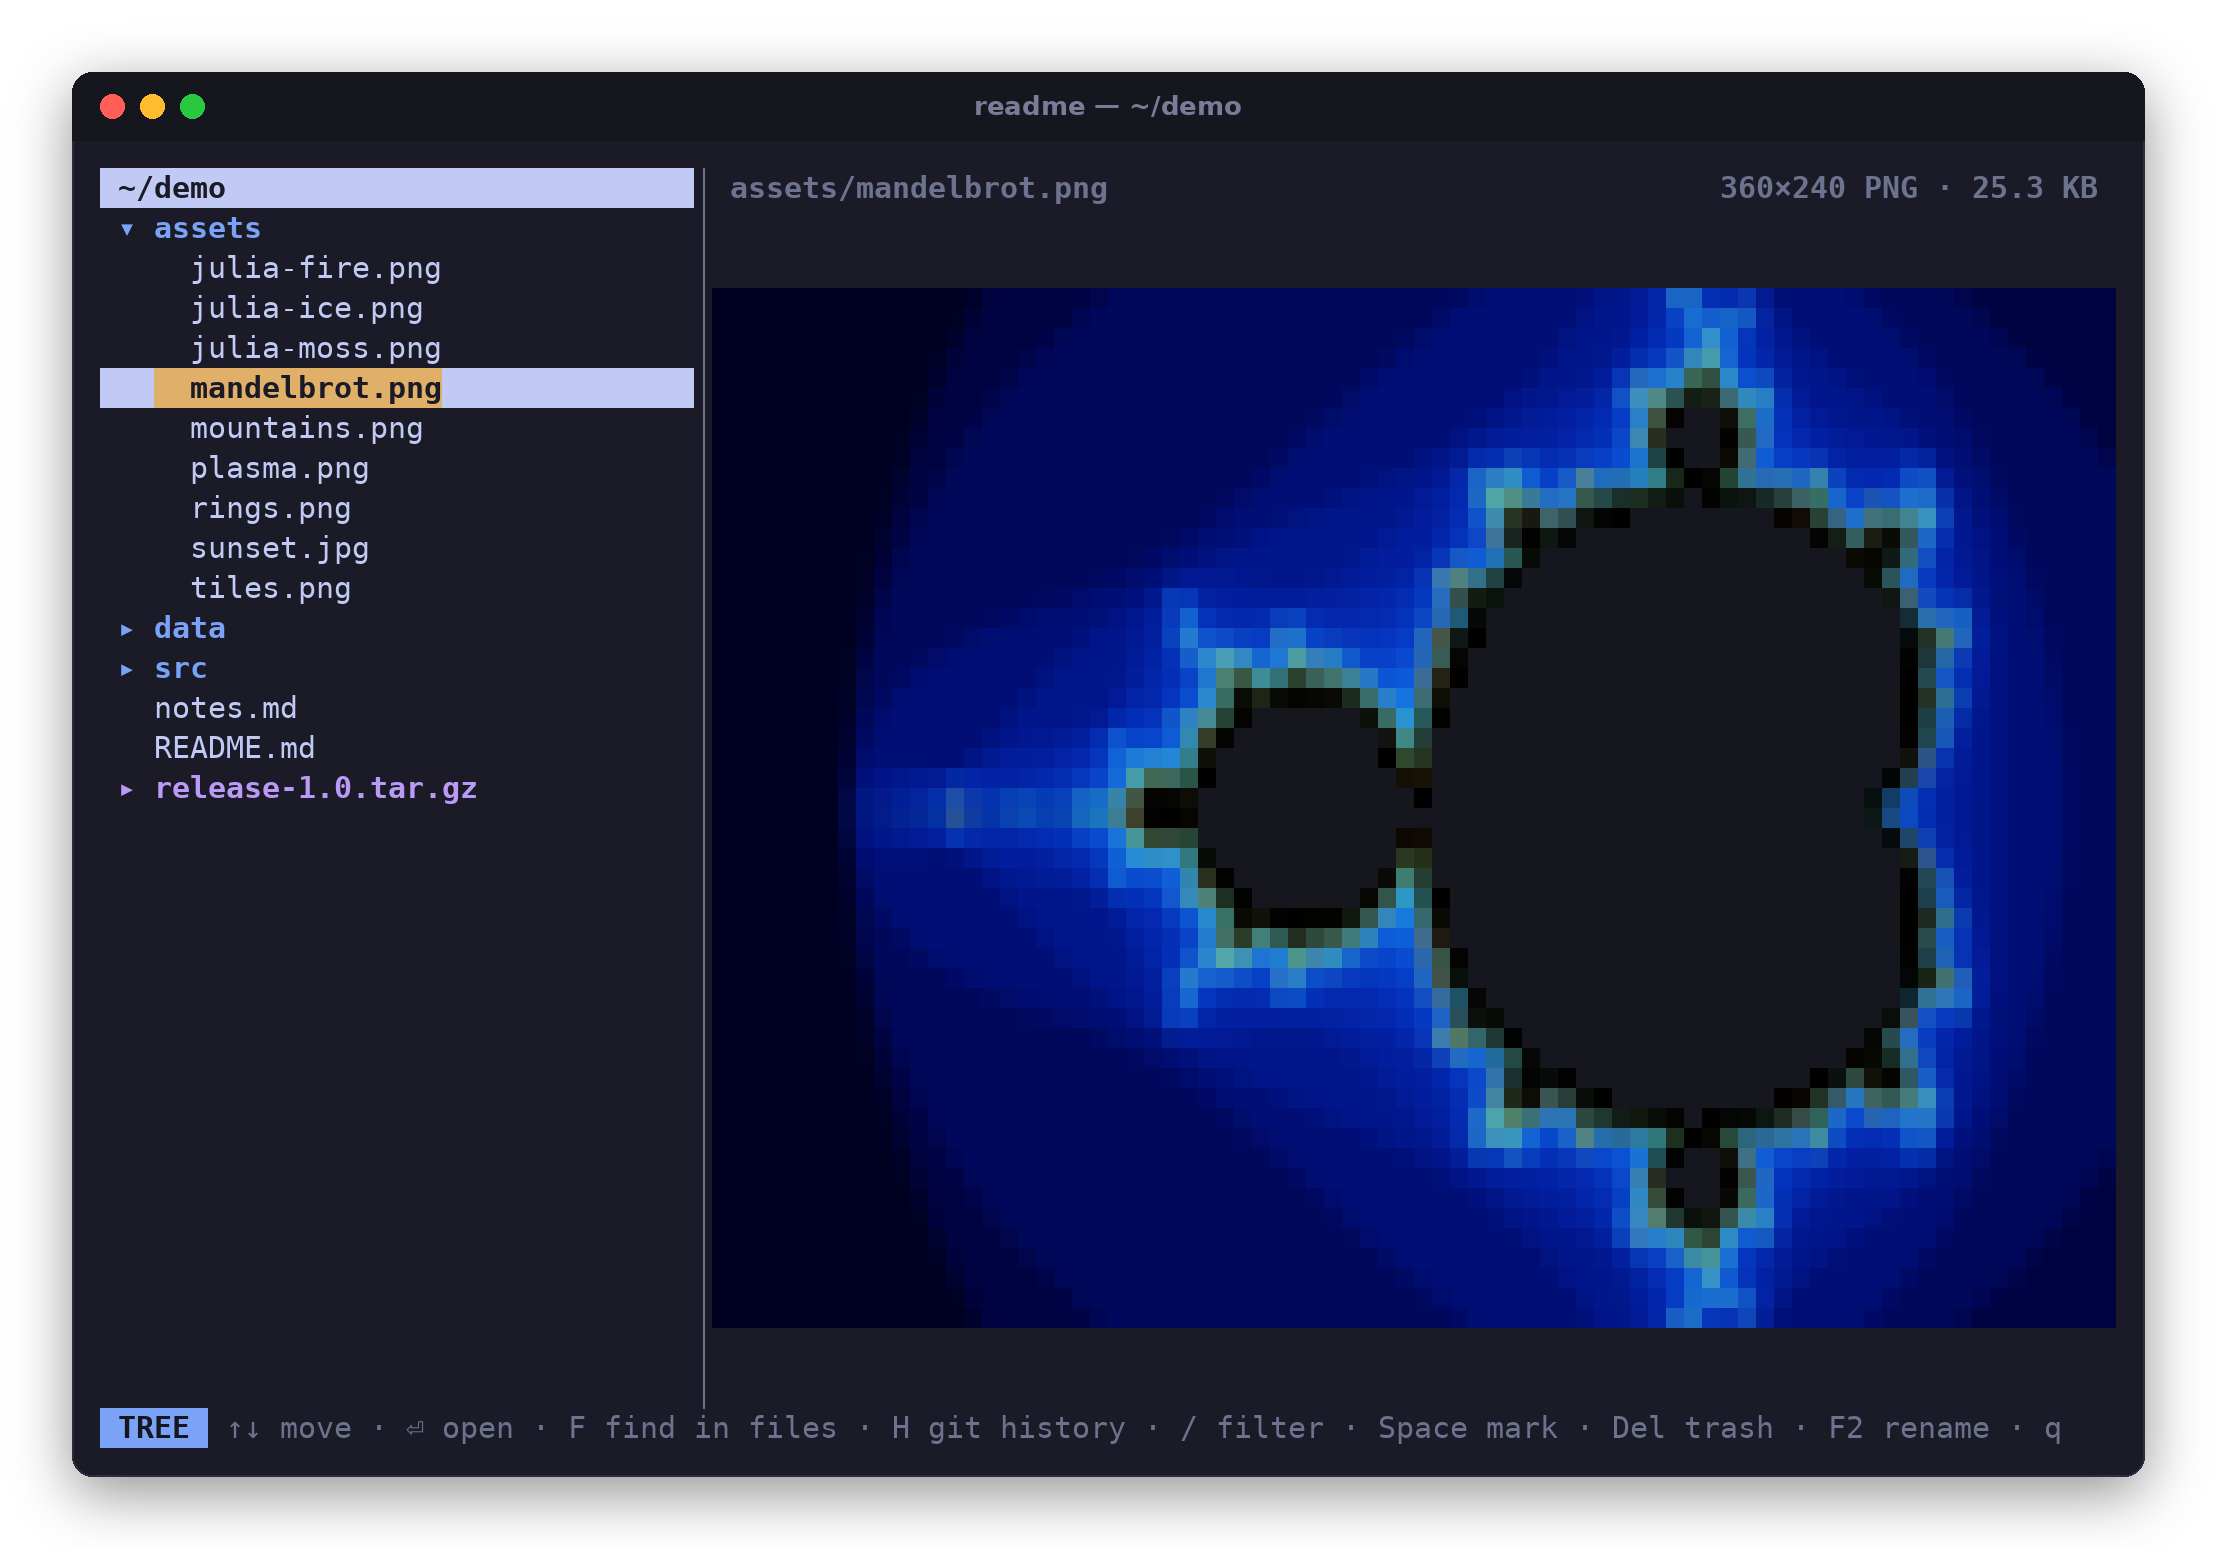
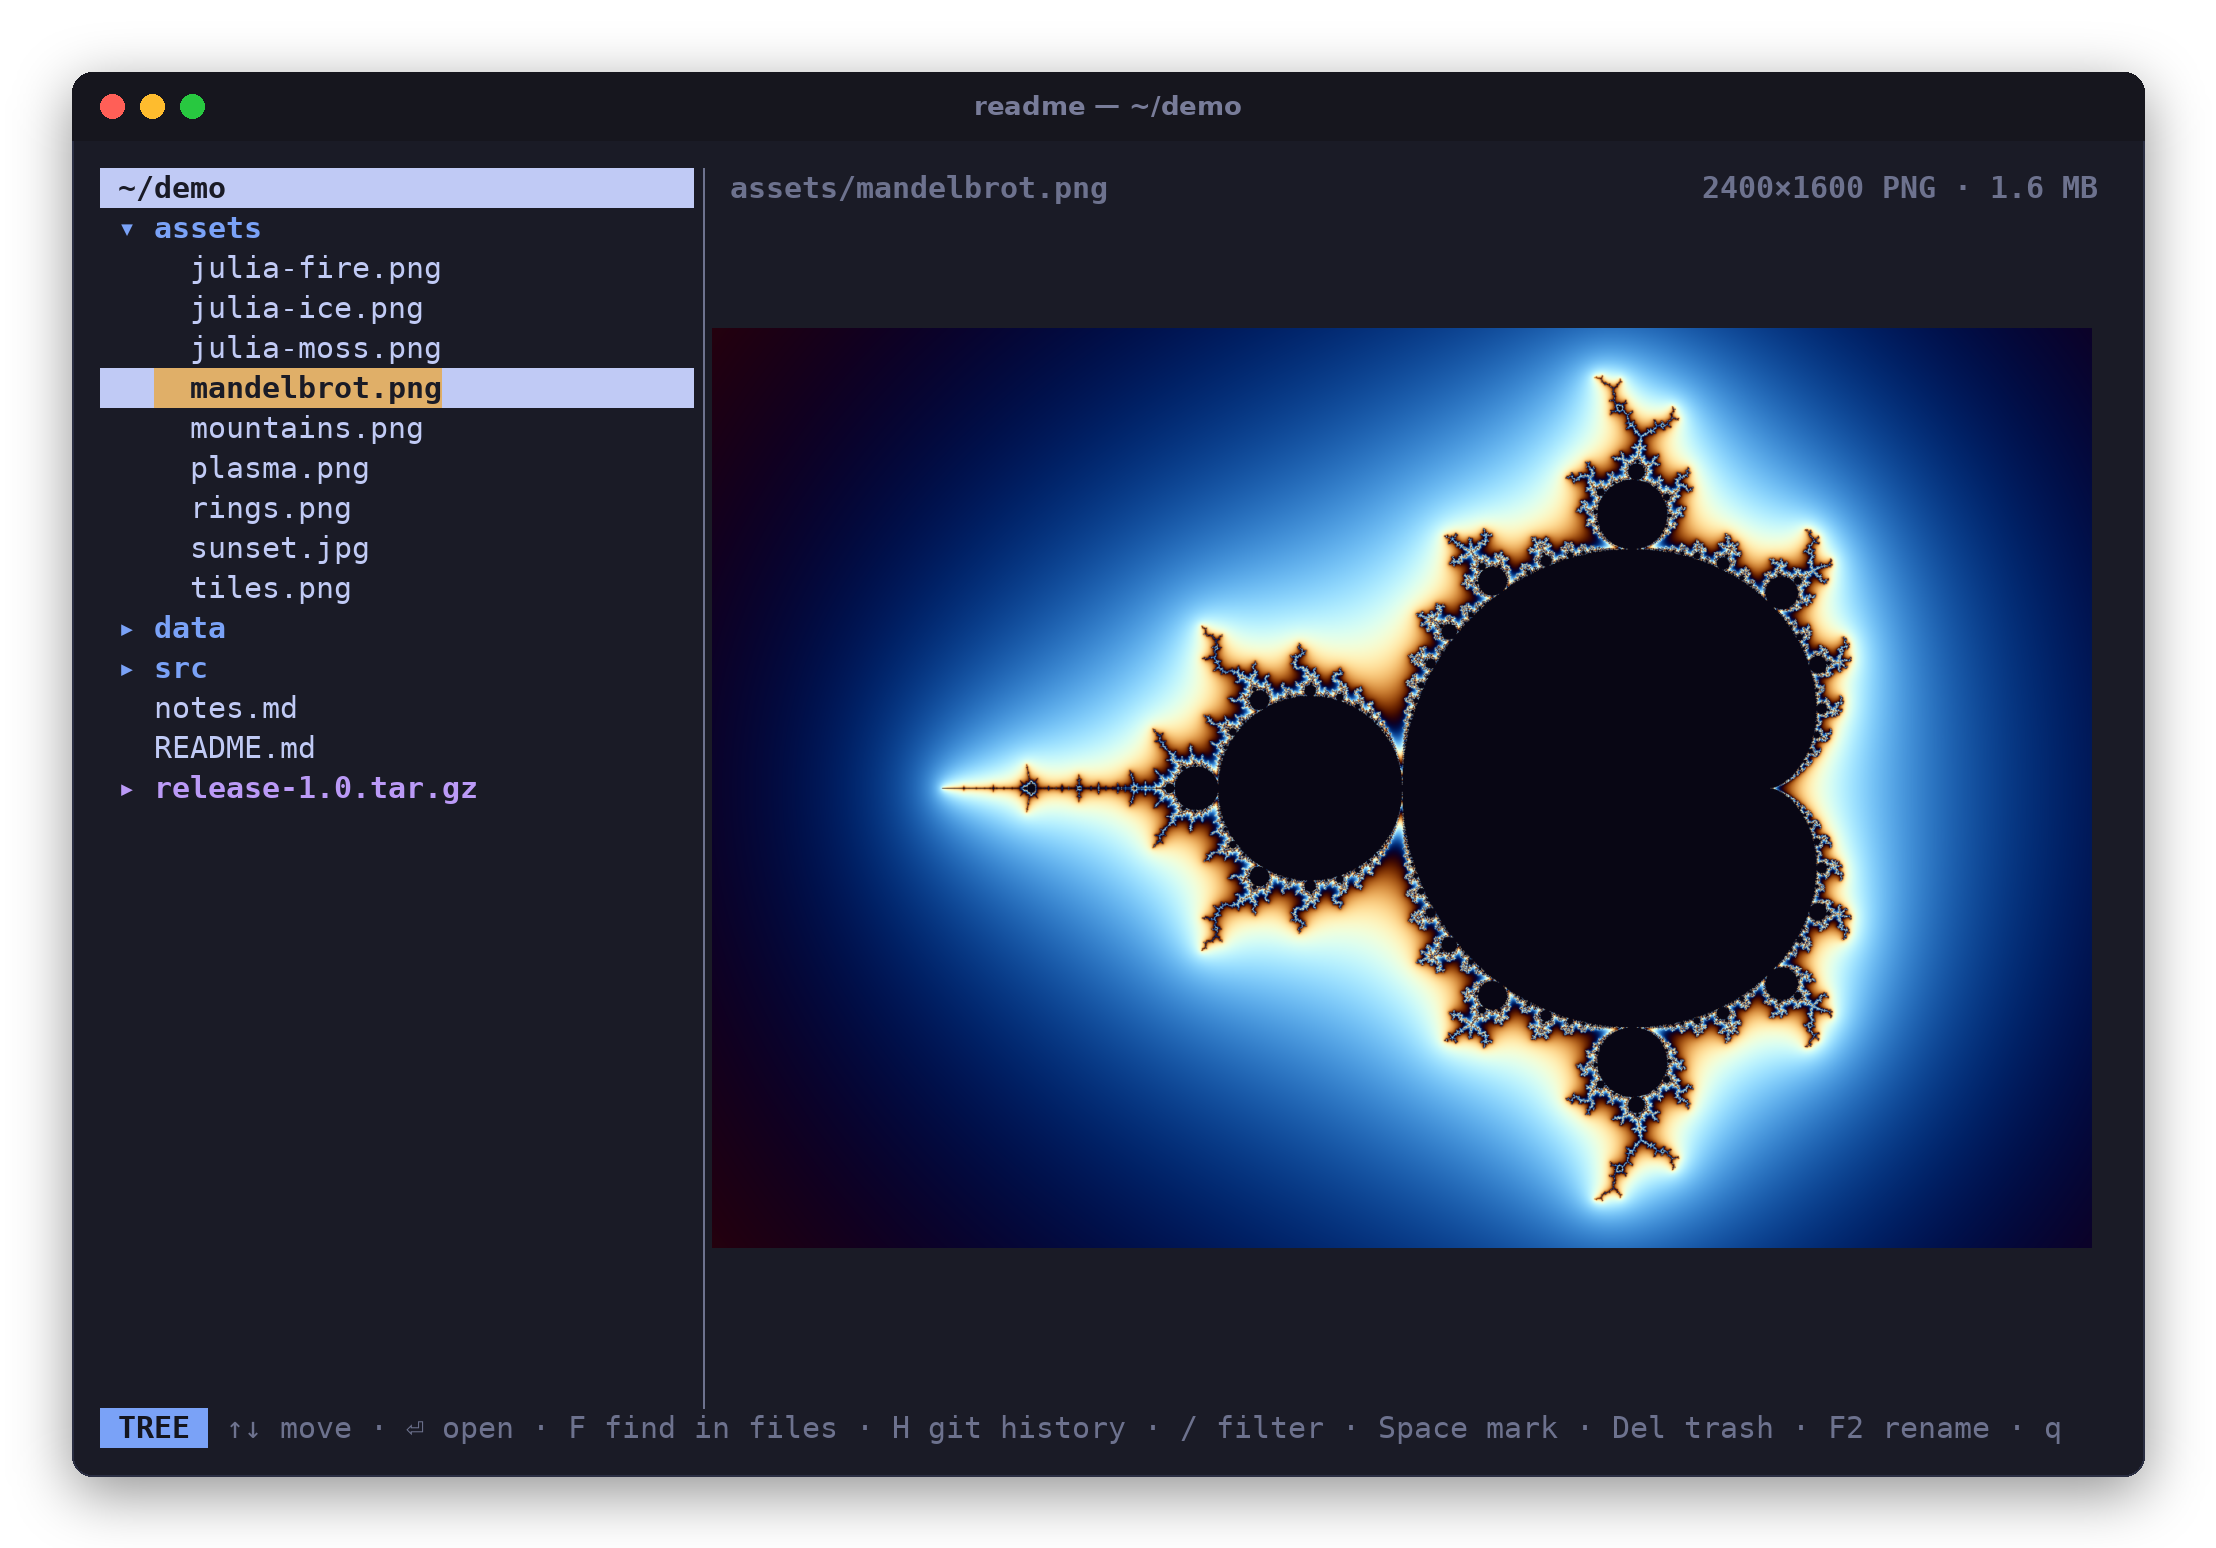
Show images at full resolution in the README, and say herdr isn't required
The image viewer and thumbnail screenshots now show real pixels, as a terminal with Kitty graphics draws them: a 2400x1600 picture fitted to the pane, the same picture zoomed in with the wheel, and 300-pixel thumbnails. The half-block drawing for other terminals stays as a smaller example.

Changed region(s): [[0.3114, 0.186, 0.9653, 0.8682], [0.8096, 0.093, 0.8718, 0.124]]

diff --git a/README.md b/README.md
@@ -7,7 +7,8 @@ files as other programs change them.
 
 It was made for a [herdr](https://herdr.dev) pane next to coding agents: you watch
 their edits land, read what they wrote, look back through the history, and fix a line
-yourself, without leaving the terminal.
+yourself, without leaving the terminal. herdr isn't required, though: readme runs in any
+terminal, on its own or inside tmux, zellij or screen.
 
 ![readme showing a project's README rendered, next to the directory tree](docs/screenshots/markdown.png)
 
@@ -31,7 +32,7 @@ on Linux.
 - [**Source code**](#source-code) highlighted for every language [bat](https://github.com/sharkdp/bat) knows, with search, word wrap and sideways scrolling
 - [**Editing**](#editing) with selection, undo, the system clipboard, and each line's own line ending kept
 - [**CSV and TSV**](#csv-and-tsv-tables) as aligned tables with the header kept on screen
-- [**Images**](#images) with real pixels in terminals that can show them, and colored half-blocks anywhere else
+- [**Images**](#images) at full resolution in terminals that can show them, with zoom, and colored half-blocks anywhere else
 - [**Thumbnails**](#thumbnails) of a folder of images, in a grid
 - [**Archives**](#archives): zip and tar files open like folders, nothing unpacked
 - [**Git history**](#git-history) of any file or folder, as it was or as a diff, following renames
@@ -101,22 +102,31 @@ put.
 
 ## Images
 
-PNG, JPEG, GIF, WebP, BMP, TIFF, TGA, QOI, ICO, PNM and HDR images show in the terminal:
-with real pixels where it has a graphics protocol (Kitty, Ghostty, WezTerm, Konsole,
-iTerm2, Sixel terminals), and with colored half-blocks anywhere else, as in these
-screenshots. The wheel or `+` and `-` zoom (toward the pointer), dragging or the arrow
-keys move around, and `0` or a double-click fits the image again.
+PNG, JPEG, GIF, WebP, BMP, TIFF, TGA, QOI, ICO, PNM and HDR images show at full
+resolution in terminals with a graphics protocol: Kitty, Ghostty, WezTerm, Konsole,
+iTerm2, and Sixel terminals. The header gives the image's size and format.
 
-![A Mandelbrot set image drawn in half-blocks](docs/screenshots/image.png)
+![A 2400×1600 Mandelbrot set image shown at full resolution](docs/screenshots/image.png)
+
+The wheel (or `+` and `-`) zooms toward the pointer, dragging or the arrow keys move
+around, and `0` or a double-click fits the image again. Each view is scaled from the
+full image, so zooming in shows the real detail rather than blown-up pixels.
+
+![The same image zoomed in four steps with the wheel, showing the detail at the edge of the set](docs/screenshots/zoom.png)
+
+Anywhere else, images are drawn with colored half-blocks, two pixels to a character,
+which works in any terminal with true color:
+
+<p align="center"><img src="docs/screenshots/halfblocks.png" width="70%" alt="A Mandelbrot set image drawn in half-blocks"></p>
 
 ## Thumbnails
 
 Select a folder with images in it and the right pane shows them as a grid. They load in
-the background, on every core but one, as they come into view. `+` and `-` (or
-`Ctrl`+wheel) change their size, and a click or `Enter` opens one; `Esc` goes back to the
-grid.
+the background, on every core but one, as they come into view. They start 100 pixels
+wide; `+` and `-` (or `Ctrl`+wheel) change their size, and a click or `Enter` opens one.
+`Esc` goes back to the grid.
 
-![A folder of nine images shown as thumbnails](docs/screenshots/thumbnails.png)
+![A folder of nine images shown as 300-pixel thumbnails](docs/screenshots/thumbnails.png)
 
 ## Archives
 
@@ -190,7 +200,8 @@ The easy way: point Claude Code, Codex or another coding agent at
 out what's needed.
 
 By hand, you need Rust 1.90 or newer and a C compiler (for the xz and zstd decoders),
-plus `git` for the history view.
+plus `git` for the history view. herdr isn't needed; any terminal will do, and one with
+Kitty graphics or Sixel support shows images at full resolution.
 
 ```
 cargo install --git https://github.com/bhoult/readme
